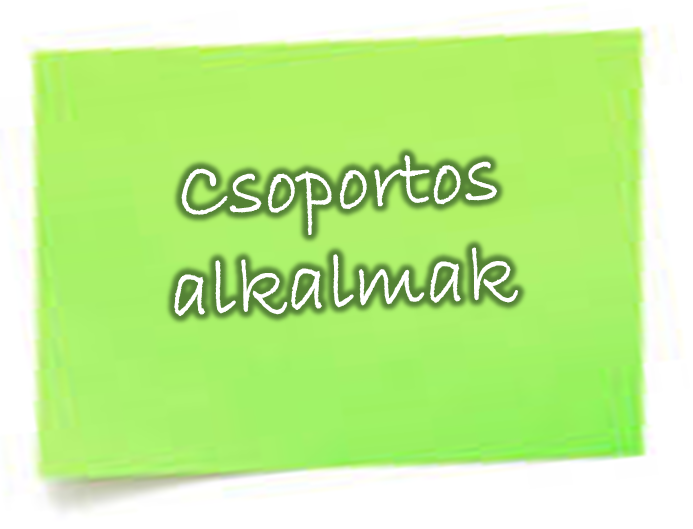
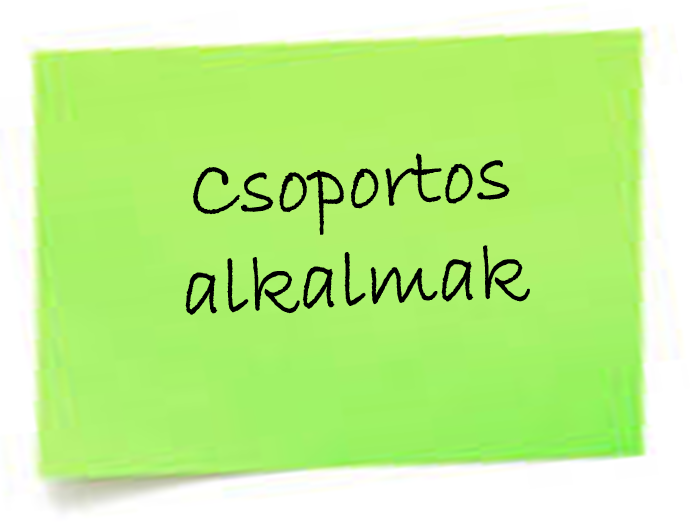
change postit fontcolor
change postit fontcolor

Changed region(s): [[0.2424, 0.2722, 0.7879, 0.6049]]

diff --git a/public/corporateservice.html b/public/corporateservice.html
@@ -50,7 +50,7 @@
     $("#header3").click(function(){
     $(".header").css("background-image","url(images/_MG_5321_ok_rolam_mondtakfilter.JPG)");
     });
-            </script><div class="clearfix"></div></div></a></div><div id="corpservice" class="corpservice"><div class="container"><br><h4 class="title-color"><span class="title-color">Célorientált coach tevékenységem</span> számos vezetőt segített már abban, hogy kiaknázza képességeit és kihozza a legjobbat magából illetve beosztottjaiból, ezáltal mérhetően növelve cége/munkáltatója hatékonyságát és eredményességét.</h4><div class="service-grids"><div class="icon-grids"><div class="col-md-4 futr-grid futr1"><img class="corpservice" alt="Egyéni kapcsolatban" src="images/yellowpostitwithtitle.png"> <img class="corpservice" alt="Egyéni kapcsolatban" src="images/yellowpostitwithgreentitle.png"><div class="icon-info"><p>Az egyéni coachingok célja vállalatok vezetői, alkalmazottai számára:</p><ul><li><strong>Az adott szerepkörben való kiteljesedés,</strong>azaz a meglevő feladatkör hatékonyabb és magasabb színvonalú ellátásának támogatása.</li><li><strong>Előreléptetéshez szükséges képességek fejlesztése.</strong></li></ul><p>Versenyszférában, multinacionális környezetben szerzett tapasztalataim lehetővé teszik, hogy megértsem ügyfeleim igényeit és hatékonyan támogassam őket problémáik megoldásában.</p><p>Az egyéni alkalmak során <strong>az ügyfél erősségeire támaszkodva megvizsgáljuk, hogy mely, milyen meglévő hiedelmei akadályozzák a siker elérésében.</strong></p><p>Dolgozom <strong>személyesen és online</strong> csatornán (skype) keresztül is.</p></div><div class="icon-info"><p class="title-color">KIEMELT COACHING TERÜLETEK:</p><ul><li>Vezetői készségek és vezetői stílus fejlesztése</li><li>Problémamegoldás fejlesztése</li><li>Döntéshozatal</li><li>Stressz menedzsment</li><li>Együttműködés és konfliktushelyzetek kezelése</li><li>Delegálás erősítése</li><li>Prezentációs készség fejlesztése</li><li>Munka és magánélet egyensúly</li><li>Önbizalom növelése</li><li>Önmotiváció fejlesztése</li></ul></div><div class="clearfix"></div></div><div class="col-md-4 futr-grid futr1"><img class="corpservice" alt="Csoportos kapcsolatban" src="images/greenpostitwithtitle.png"> <img class="corpservice" alt="Csoportos kapcsolatban" src="images/greenpostitwithCAPtitle.png"><div class="icon-info"><p>Vezetőként eltöltött évek alatt megismertem több vállalat működését és kultúráját: ennek folyamán számos tapasztalattal gazdagodtam, melyek jelenleg is segítik coachként való működésemet.</p><p>A tréningek, team és csoport coachingok során <strong>az adott problémakört több módszerrel közelítjük meg. A cél meghatározása után, az adott témakörnek megfelelően összeállított alkalmak tartalmaznak:</strong></p><ul><li>állapotfelmérést,</li><li>módszertani ismertetőt/oktatást és</li><li>gyakorlati elemeket is.</li></ul><p>A gyakorlati részek alatt, a résztvevők hol magukban, hol csoportosan dolgoznak a témán, a megoldások élethelyzetekben való kipróbálásával.</p><p>Időtartam általában háromszor 4 óra.</p></div><div class="icon-info"><p class="title-color">CSOPORTOS ALKALMAK TÉMAKÖREI:</p><ul><li>Időgazdálkodás, Munka-magánélet egyensúly</li><li>Konfliktuskezelés a munkahelyen</li><li>Hatékony és asszertív kommunikáció a munkahelyen</li><li>Sikeresség, egyéni célok a munkahelyen</li><li>Felsővezetői tréning</li></ul></div><div class="clearfix"></div></div><div class="col-md-4 futr-grid futr1"><img class="corpservice" alt="Tanácsadás" src="images/pinkpostitwithtitle.png"> <img class="corpservice" alt="Tanácsadás" src="images/pinkpostitwithgreentitle.png"><div class="icon-info"><p>Projektvezetőket és projekteket támogatok a hatékonyabbá válásban.</p><p>1995 - 2013. között külső és belső tanácsadóként, projektvezetőként dolgoztam. Ez idő alatt, változatos területeken (pld. a kiskereskedelem, olajipar, gyártás, villamos energia és pénzügyi szektorban) vettem részt, többnyire csapat és projektvezetőként különböző projektekben.</p><p>Vezetői és projekt tapasztalattal a hátam mögött, <strong>segítem a projektvezetőket és a projekttagokat a hatékony, megbízók által megkívánt "on time, on budget, on quality" munkavégzés megvalósításában.</strong></p><p>A projektvezetőket módszertani eszközökkel támogatom, a csapatokat a célra fókuszálásban és az együttműködésben segítem.</p></div><div class="icon-info"><p class="title-color">KINEK ÉS MIBEN TUDOK SEGÍTENI?<br><strong>Projektvezetőknek:</strong></p><ul><li>munkaterv készítése, elfogadtatása</li><li>idő és költségterv készítése</li><li>érdekelt felek bevonása</li><li>kommunikáció</li><li>kockázatkezelés</li><li>problémamegoldás</li><li>eszkalálás</li><li>csapatvezetési képességek fejlesztése, stb.</li></ul><p><strong>Csapatoknak:</strong></p><ul><li>belső-külső kommunikáció erősítése</li><li>időgazdálkodás</li><li>konfliktuskezelés fejlesztése</li><li>együttműködés erősítése</li><li>kockázatkezelés</li><li>stressz kezelés</li></ul></div><div class="clearfix"></div></div></div></div></div></div><div class="intro"><h4 class="title-color">Az alábbi szervezetek kiváló munkatársaival dolgozhattam:</h4><div class="company-logos"><img src="images/logo1.png" alt="Ateknea Solutions"> <img src="images/logo2.png" alt="Trigranit"> <img src="images/logo3.png" alt="Budapest Bank"> <img src="images/logo4.png" alt="Arena Centar"> <img src="images/logo5.png" alt="Mortoff"> <img src="images/logo6.png" alt="Clear Channel Hungary"> <img src="images/logo7.png" alt="X APT New Frontier Group"> <img src="images/logo8.png" alt="MOVA"></div></div><div id="contact" class="contact"><div class="container"><h3>Kapcsolatfelvétel</h3><div class="touch-top"><div class="col-md-8 touch-left"><form action="mailTo:coach@pekoeva.hu"><input type="text" value="név" onfocus="this.value = '';" onblur="if (this.value == '') {this.value = 'Name';}"> <input type="text" value="email cím" onfocus="this.value = '';" onblur="if (this.value == '') {this.value = 'Email';}"><input type="submit" value="ELKÜLD"></form></div><div class="clearfix"></div></div></div></div><div class="footer"><div class="container"><div class="social"><a href="#"><i class="facebook"></i></a> <a href="#"><i class="twitter"></i></a> <a href="#"><i class="dribble"></i></a> <a href="#"><i class="google"></i></a> <a href="#"><i class="youtube"></i></a></div><br><p>© 2015 - Minden jog fenntartva</p><p>Készítette <i class="fa fa-heart"></i>-tel: <a href="http://www.pianovszkyeniko.hu" target="_blank">Eniko Pianovszky</a><br>Sablon: <a href="http://w3layouts.com/">W3layouts</a></p><div class="arrow"><a class="scroll" href="#home"><img src="images/top.png" alt></a></div></div></div><script type="text/javascript">
+            </script><div class="clearfix"></div></div></a></div><div id="corpservice" class="corpservice"><div class="container"><br><h4 class="title-color"><span class="title-color">Célorientált coach tevékenységem</span> számos vezetőt segített már abban, hogy kiaknázza képességeit és kihozza a legjobbat magából illetve beosztottjaiból, ezáltal mérhetően növelve cége/munkáltatója hatékonyságát és eredményességét.</h4><div class="service-grids"><div class="icon-grids"><div class="col-md-4 futr-grid futr1"><img class="corpservice" alt="Egyéni kapcsolatban" src="images/yellowpostitwithtitle.png"><div class="icon-info"><p>Az egyéni coachingok célja vállalatok vezetői, alkalmazottai számára:</p><ul><li><strong>Az adott szerepkörben való kiteljesedés,</strong>azaz a meglevő feladatkör hatékonyabb és magasabb színvonalú ellátásának támogatása.</li><li><strong>Előreléptetéshez szükséges képességek fejlesztése.</strong></li></ul><p>Versenyszférában, multinacionális környezetben szerzett tapasztalataim lehetővé teszik, hogy megértsem ügyfeleim igényeit és hatékonyan támogassam őket problémáik megoldásában.</p><p>Az egyéni alkalmak során <strong>az ügyfél erősségeire támaszkodva megvizsgáljuk, hogy mely, milyen meglévő hiedelmei akadályozzák a siker elérésében.</strong></p><p>Dolgozom <strong>személyesen és online</strong> csatornán (skype) keresztül is.</p></div><div class="icon-info"><p class="title-color">KIEMELT COACHING TERÜLETEK:</p><ul><li>Vezetői készségek és vezetői stílus fejlesztése</li><li>Problémamegoldás fejlesztése</li><li>Döntéshozatal</li><li>Stressz menedzsment</li><li>Együttműködés és konfliktushelyzetek kezelése</li><li>Delegálás erősítése</li><li>Prezentációs készség fejlesztése</li><li>Munka és magánélet egyensúly</li><li>Önbizalom növelése</li><li>Önmotiváció fejlesztése</li></ul></div><div class="clearfix"></div></div><div class="col-md-4 futr-grid futr1"><img class="corpservice" alt="Csoportos kapcsolatban" src="images/greenpostitwithtitle.png"><div class="icon-info"><p>Vezetőként eltöltött évek alatt megismertem több vállalat működését és kultúráját: ennek folyamán számos tapasztalattal gazdagodtam, melyek jelenleg is segítik coachként való működésemet.</p><p>A tréningek, team és csoport coachingok során <strong>az adott problémakört több módszerrel közelítjük meg. A cél meghatározása után, az adott témakörnek megfelelően összeállított alkalmak tartalmaznak:</strong></p><ul><li>állapotfelmérést,</li><li>módszertani ismertetőt/oktatást és</li><li>gyakorlati elemeket is.</li></ul><p>A gyakorlati részek alatt, a résztvevők hol magukban, hol csoportosan dolgoznak a témán, a megoldások élethelyzetekben való kipróbálásával.</p><p>Időtartam általában háromszor 4 óra.</p></div><div class="icon-info"><p class="title-color">CSOPORTOS ALKALMAK TÉMAKÖREI:</p><ul><li>Időgazdálkodás, Munka-magánélet egyensúly</li><li>Konfliktuskezelés a munkahelyen</li><li>Hatékony és asszertív kommunikáció a munkahelyen</li><li>Sikeresség, egyéni célok a munkahelyen</li><li>Felsővezetői tréning</li></ul></div><div class="clearfix"></div></div><div class="col-md-4 futr-grid futr1"><img class="corpservice" alt="Tanácsadás" src="images/pinkpostitwithtitle.png"><div class="icon-info"><p>Projektvezetőket és projekteket támogatok a hatékonyabbá válásban.</p><p>1995 - 2013. között külső és belső tanácsadóként, projektvezetőként dolgoztam. Ez idő alatt, változatos területeken (pld. a kiskereskedelem, olajipar, gyártás, villamos energia és pénzügyi szektorban) vettem részt, többnyire csapat és projektvezetőként különböző projektekben.</p><p>Vezetői és projekt tapasztalattal a hátam mögött, <strong>segítem a projektvezetőket és a projekttagokat a hatékony, megbízók által megkívánt "on time, on budget, on quality" munkavégzés megvalósításában.</strong></p><p>A projektvezetőket módszertani eszközökkel támogatom, a csapatokat a célra fókuszálásban és az együttműködésben segítem.</p></div><div class="icon-info"><p class="title-color">KINEK ÉS MIBEN TUDOK SEGÍTENI?<br><strong>Projektvezetőknek:</strong></p><ul><li>munkaterv készítése, elfogadtatása</li><li>idő és költségterv készítése</li><li>érdekelt felek bevonása</li><li>kommunikáció</li><li>kockázatkezelés</li><li>problémamegoldás</li><li>eszkalálás</li><li>csapatvezetési képességek fejlesztése, stb.</li></ul><p><strong>Csapatoknak:</strong></p><ul><li>belső-külső kommunikáció erősítése</li><li>időgazdálkodás</li><li>konfliktuskezelés fejlesztése</li><li>együttműködés erősítése</li><li>kockázatkezelés</li><li>stressz kezelés</li></ul></div><div class="clearfix"></div></div></div></div></div></div><div class="intro"><h4 class="title-color">Az alábbi szervezetek kiváló munkatársaival dolgozhattam:</h4><div class="company-logos"><img src="images/logo1.png" alt="Ateknea Solutions"> <img src="images/logo2.png" alt="Trigranit"> <img src="images/logo3.png" alt="Budapest Bank"> <img src="images/logo4.png" alt="Arena Centar"> <img src="images/logo5.png" alt="Mortoff"> <img src="images/logo6.png" alt="Clear Channel Hungary"> <img src="images/logo7.png" alt="X APT New Frontier Group"> <img src="images/logo8.png" alt="MOVA"></div></div><div id="contact" class="contact"><div class="container"><h3>Kapcsolatfelvétel</h3><div class="touch-top"><div class="col-md-8 touch-left"><form action="mailTo:coach@pekoeva.hu"><input type="text" value="név" onfocus="this.value = '';" onblur="if (this.value == '') {this.value = 'Name';}"> <input type="text" value="email cím" onfocus="this.value = '';" onblur="if (this.value == '') {this.value = 'Email';}"><input type="submit" value="ELKÜLD"></form></div><div class="clearfix"></div></div></div></div><div class="footer"><div class="container"><div class="social"><a href="#"><i class="facebook"></i></a> <a href="#"><i class="twitter"></i></a> <a href="#"><i class="dribble"></i></a> <a href="#"><i class="google"></i></a> <a href="#"><i class="youtube"></i></a></div><br><p>© 2015 - Minden jog fenntartva</p><p>Készítette <i class="fa fa-heart"></i>-tel: <a href="http://www.pianovszkyeniko.hu" target="_blank">Eniko Pianovszky</a><br>Sablon: <a href="http://w3layouts.com/">W3layouts</a></p><div class="arrow"><a class="scroll" href="#home"><img src="images/top.png" alt></a></div></div></div><script type="text/javascript">
 		$(document).ready(function() {
 				/*
 				var defaults = {

diff --git a/corporateservice.html b/corporateservice.html
@@ -216,7 +216,6 @@ EREDMÉNYES VÁLLALAT
 		 <div class="icon-grids">
 			 <div class="col-md-4 futr-grid futr1">
 				 <img class="corpservice" alt="Egyéni kapcsolatban" src="images/yellowpostitwithtitle.png">
-                 <img class="corpservice" alt="Egyéni kapcsolatban" src="images/yellowpostitwithgreentitle.png">
 				 <div class="icon-info">
 						 <p>Az egyéni coachingok célja vállalatok vezetői, alkalmazottai számára:
 </p>
@@ -237,7 +236,6 @@ Az egyéni alkalmak során <strong>az ügyfél erősségeire támaszkodva megviz
 			 </div>
              <div class="col-md-4 futr-grid futr1">
 				 <img class="corpservice" alt="Csoportos kapcsolatban" src="images/greenpostitwithtitle.png">
-                 <img class="corpservice" alt="Csoportos kapcsolatban" src="images/greenpostitwithCAPtitle.png">
 				 <div class="icon-info">
 						 <p>Vezetőként eltöltött évek alatt megismertem több vállalat működését és kultúráját:  ennek folyamán számos tapasztalattal gazdagodtam, melyek jelenleg is segítik coachként való működésemet.</p><p>A tréningek, team és csoport coachingok során <strong>az adott problémakört több módszerrel közelítjük meg. A cél meghatározása után, az adott témakörnek megfelelően összeállított alkalmak tartalmaznak:</p>
 <ul><li>állapotfelmérést,
@@ -260,7 +258,6 @@ Az egyéni alkalmak során <strong>az ügyfél erősségeire támaszkodva megviz
 			 </div>
              <div class="col-md-4 futr-grid futr1">
 				 <img class="corpservice" alt="Tanácsadás" src="images/pinkpostitwithtitle.png">
-                 <img class="corpservice" alt="Tanácsadás" src="images/pinkpostitwithgreentitle.png">
 				 <div class="icon-info">
 						 <p>Projektvezetőket és projekteket támogatok a hatékonyabbá válásban.
 </p>
